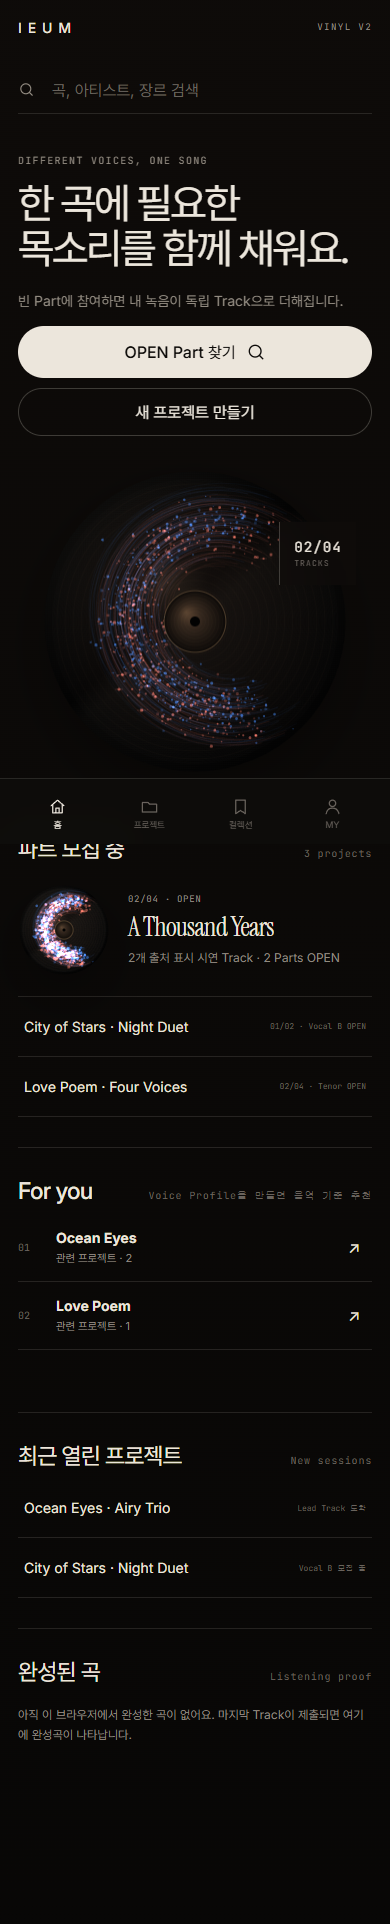
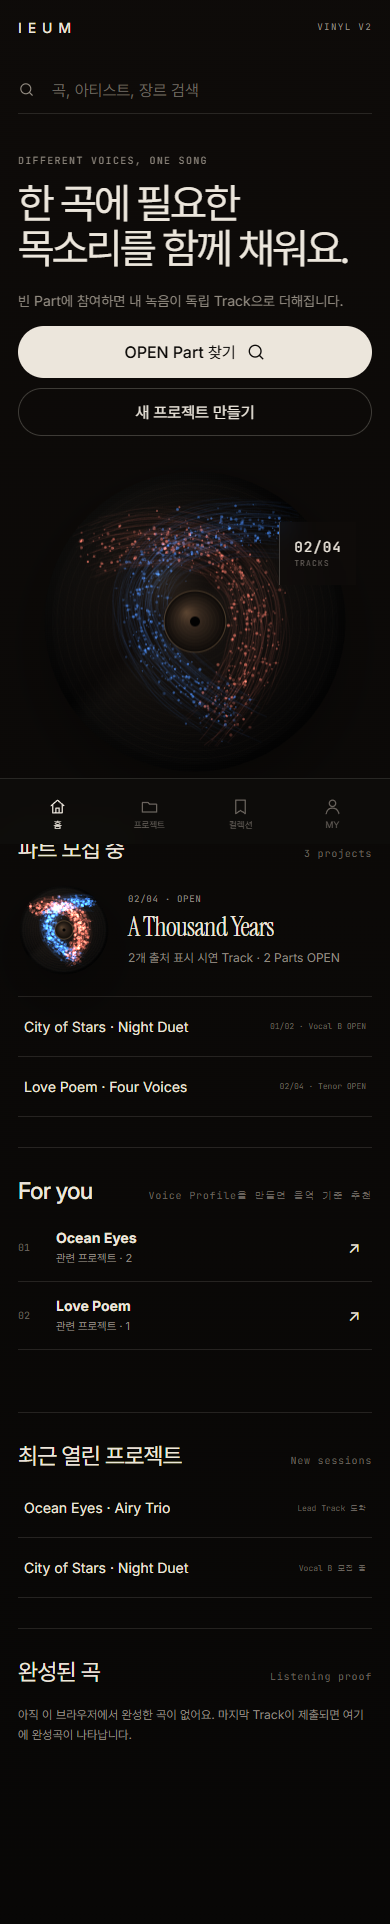
Match reference with intersecting voice flows

Changed region(s): [[0.2462, 0.2495, 0.7077, 0.3742], [0.0615, 0.4366, 0.2462, 0.5301]]

diff --git a/src/App.jsx b/src/App.jsx
@@ -215,15 +215,29 @@ function ResonanceRecord({ active = [true, false, true, false], layers = [], act
           const spread=Math.max(.055,Math.min(.24,Number(layer.spread??.1)))
           const turbulence=Math.max(.2,Math.min(1.4,Number(layer.turbulence??.72)))
           const live=layerIndex===activePartIndex?liveAmount:0
-          const direction=-1
-          const sharedOrigin=-.42+((numericSeed%29)/29-.5)*.18
-          const layerOffset=(layerIndex-1.5)*.22+(Number(layer.phase??0)%1)*.08
+          const flowPaths=[
+            [[.9,-.58],[-.42,-1.02],[-1.02,.18],[.54,.86]],
+            [[-.92,-.48],[.28,-1.04],[1.02,.02],[-.06,.9]],
+            [[-.86,.52],[-.38,1.02],[.76,.94],[.92,-.26]],
+            [[.68,.92],[1.05,.16],[.45,-.92],[-.62,-.78]]
+          ]
+          const controls=flowPaths[layerIndex]
+          const projectRotation=((numericSeed%37)/37-.5)*.14,rotationCos=Math.cos(projectRotation),rotationSin=Math.sin(projectRotation)
           const strandCount=Math.round(38+energy*28+live*12)
           const pointOnFlow=(t,offset,wobble=0)=>{
-            const inhale=Math.sin(Math.PI*t)
-            const radius=.77+(baseRadius-.55)*.13-inhale*(.25+spread*.42)+offset*(.42+spread*.9)+Math.sin(t*9.2+layerSeed*.017+wobble)*.018*turbulence
-            const angle=sharedOrigin+layerOffset+direction*(t*(4.65+turbulence*.28)+Math.sin(t*Math.PI)*.36)+Math.sin(t*5.4+wobble)*.028*turbulence+(state==='recording'&&layerIndex===activePartIndex?now*.00016*live:0)
-            return [c+Math.cos(angle)*discRadius*radius,c+Math.sin(angle)*discRadius*radius]
+            const u=1-t,u2=u*u,t2=t*t
+            let x=u2*u*controls[0][0]+3*u2*t*controls[1][0]+3*u*t2*controls[2][0]+t2*t*controls[3][0]
+            let y=u2*u*controls[0][1]+3*u2*t*controls[1][1]+3*u*t2*controls[2][1]+t2*t*controls[3][1]
+            const dx=3*u2*(controls[1][0]-controls[0][0])+6*u*t*(controls[2][0]-controls[1][0])+3*t2*(controls[3][0]-controls[2][0])
+            const dy=3*u2*(controls[1][1]-controls[0][1])+6*u*t*(controls[2][1]-controls[1][1])+3*t2*(controls[3][1]-controls[2][1])
+            const length=Math.max(.001,Math.hypot(dx,dy)),normalX=-dy/length,normalY=dx/length
+            const featureScale=.88+(baseRadius-.55)*.16
+            const noiseOffset=(Math.sin(t*12.7+wobble+layerSeed*.011)*.018+Math.sin(t*31.1-wobble)*.006)*turbulence
+            x=x*featureScale+normalX*(offset*.5+noiseOffset)
+            y=y*featureScale+normalY*(offset*.5+noiseOffset)
+            const rotatedX=x*rotationCos-y*rotationSin,rotatedY=x*rotationSin+y*rotationCos
+            const livePull=state==='recording'&&layerIndex===activePartIndex?Math.sin(Math.PI*t)*live*.018*Math.sin(now*.004+t*8):0
+            return [c+rotatedX*discRadius,c+(rotatedY+livePull)*discRadius]
           }
           ctx.globalCompositeOperation='lighter'
           for(let strand=0;strand<strandCount;strand++){
